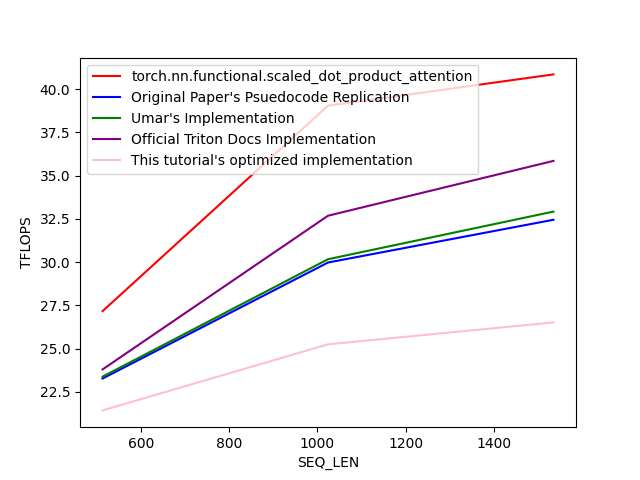
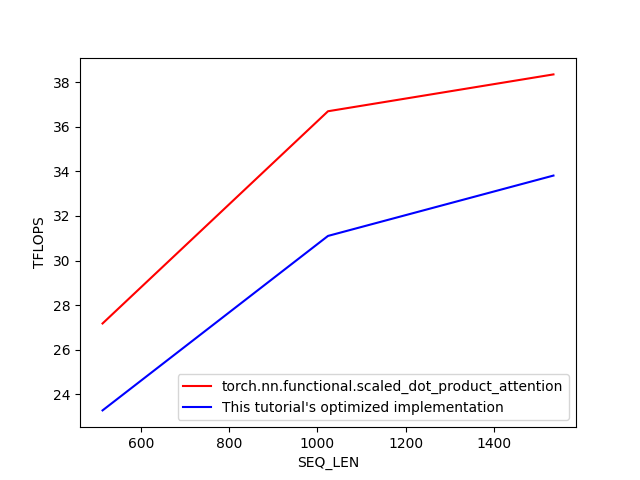
ok we've decided to only support up to 128 head dim, but even with autotuning this is still slower than pytorch which is weird bc the fp32 version in the other repo was waaayyyyy faster than pytorch

diff --git a/09_flash_attention/benchmark_results/results.html b/09_flash_attention/benchmark_results/results.html
@@ -1,2 +1,4 @@
 <html><body>
 <image src="attention-performance-fwd.png"/>
+<image src="attention-performance-bwd.png"/>
+</body></html>

diff --git a/09_flash_attention/flash_attention.py b/09_flash_attention/flash_attention.py
@@ -156,10 +156,10 @@ def _attn_fwd_inner(
             {"BLOCK_SIZE_QO": BLOCK_SIZE_QO, "BLOCK_SIZE_KV": BLOCK_SIZE_KV},
             num_stages=num_stages, num_warps=num_warps,
         )
-        for BLOCK_SIZE_QO in [64]#, 128]
-        for BLOCK_SIZE_KV in [32]#, 64]
-        for num_stages in [3]#, 4, 7]
-        for num_warps in [2]#, 4]
+        for BLOCK_SIZE_QO in [32, 64, 128]
+        for BLOCK_SIZE_KV in [32, 64, 128]
+        for num_stages in [3, 4, 7]
+        for num_warps in [2, 4, 8, 16]
     ],
     key=["N", "Dh"], # auto-tune will re-run every time either of these values changes in a new input
     # TODO is there a way to make it only change when N surpasses a new multiple of BLOCK_SIZE?
@@ -305,9 +305,9 @@ def attn_fwd(
     [
         triton.Config({"PRE_BLOCK_SIZE_ROW": PRE_BLOCK_SIZE_ROW},
                         num_stages=num_stages, num_warps=num_warps,)
-        for PRE_BLOCK_SIZE_ROW in [32]#, 64, 128]
-        for num_stages in [1]#, 3, 5]
-        for num_warps in [2]#, 4, 8]
+        for PRE_BLOCK_SIZE_ROW in [32, 64, 128, 256]
+        for num_stages in [1, 3, 5, 7]
+        for num_warps in [2, 4, 8, 16]
     ],
     key=["N", "Dh"], # auto-tune will re-run every time either of these values changes in a new input
 )
@@ -501,10 +501,10 @@ def _attn_backward_Q(
     [
         triton.Config({"BLOCK_SIZE_MACRO": BLOCK_SIZE_MACRO, "BLOCK_SIZE_MICRO": BLOCK_SIZE_MICRO},
                         num_stages=num_stages, num_warps=num_warps,)
-        for BLOCK_SIZE_MICRO in [16]#, 32, 64]
-        for BLOCK_SIZE_MACRO in [32]#, 64, 128]
-        for num_stages in [1]#, 3, 5, 7]
-        for num_warps in [2]#, 4, 8, 16]
+        for BLOCK_SIZE_MICRO in [16, 32, 64]
+        for BLOCK_SIZE_MACRO in [32, 64, 128]
+        for num_stages in [1, 3, 5, 7]
+        for num_warps in [2, 4, 8, 16]
         if BLOCK_SIZE_MACRO > BLOCK_SIZE_MICRO # could do >= but i wanna get mileage out of the loop code we wrote
     ],
     key=["N", "Dh"], # auto-tune will re-run every time either of these values changes in a new input
@@ -686,8 +686,8 @@ class _flashattention(torch.autograd.Function):
     @staticmethod
     def forward(ctx, q, k, v, scale): 
         assert q.shape == k.shape == v.shape
-        assert q.shape[-1] in (32, 64, 128, 256), \
-            f'flash attention only supports head dimension of 32, 64, 128 or 256 but got {q.shape[-1]}'
+        assert q.shape[-1] <= 128, \
+            f'flash attention only supports head dimension of 128 less but got {q.shape[-1]}'
             # the kernel actually isn't this limited but too much larger and i think it might overwhelm SRAM
         B, H, N, Dh = q.shape
         assert q.device == k.device and q.device == v.device
@@ -734,8 +734,6 @@ class _flashattention(torch.autograd.Function):
 
         dLdO = dLdO.contiguous()
         assert q.stride() == k.stride() == v.stride() == O.stride() == dLdO.stride()
-        
-        print("preprocess start")
 
         Delta = torch.empty_like(LSE) # shape (B, H, N) fp32
         # the ordering of your grid matters because it determines which programs end up sharing the same SRAM
@@ -750,8 +748,6 @@ class _flashattention(torch.autograd.Function):
             N, Dh,
         )
 
-        print("preprocess end, primary start")
-
         grid = lambda meta: (triton.cdiv(N, meta["BLOCK_SIZE_MACRO"]), B * H) 
         attn_backward[grid](
             q, k, v,
@@ -761,8 +757,6 @@ class _flashattention(torch.autograd.Function):
             q.stride(0), q.stride(1), q.stride(2), q.stride(3), # all tensors should share same stride
             H, N, Dh,
         )
-
-        print("primary end")
 
         return dLdq, dLdk, dLdv, None
 
@@ -824,6 +818,5 @@ if __name__ == "__main__":
     test_flashattention_kernel(1, 1, 256, 32) # without block masking
     test_flashattention_kernel(1, 1, 256, 64) # without block masking
     test_flashattention_kernel(1, 1, 256, 128) # without block masking
-    test_flashattention_kernel(1, 1, 256, 256) # without block masking
-    test_flashattention_kernel(32, 8, 512, 256) # without block masking
-    test_flashattention_kernel(32, 8, 511, 256) # with block masking
+    test_flashattention_kernel(32, 8, 512, 128) # without block masking
+    test_flashattention_kernel(32, 8, 420, 128) # with block masking

diff --git a/09_flash_attention/benchmark.py b/09_flash_attention/benchmark.py
@@ -19,15 +19,21 @@ for mode in ["fwd", "bwd"]:
             x_names=["SEQ_LEN"],
             x_vals=[512 * i for i in range(1, 4)], # LOWER IF YOU DON'T HAVE ENOUGH RAM
             line_arg="provider",
-            line_vals=["torch", 'original_paper', 'umar', 'triton_docs', 'this_tutorial'],
+            line_vals=[
+                "torch", 
+                #'original_paper', 
+                #'umar', 
+                #'triton_docs', 
+                'this_tutorial'
+                ],
             line_names=[
                 "torch.nn.functional.scaled_dot_product_attention", 
-                "Original Paper's Psuedocode Replication", 
-                "Umar's Implementation", 
-                "Official Triton Docs Implementation",
+                #"Original Paper's Psuedocode Replication", 
+                #"Umar's Implementation", 
+                #"Official Triton Docs Implementation",
                 "This tutorial's optimized implementation"
                 ],
-            styles=[("red", "-"), ("blue", "-"), ("green", "-"), ("purple", "-"), ("pink", "-")],
+            styles=[("red", "-"), ("blue", "-")],#, ("green", "-"), ("purple", "-"), ("pink", "-")],
             ylabel="TFLOPS",
             plot_name=f"attention-performance-{mode}",
             args={
